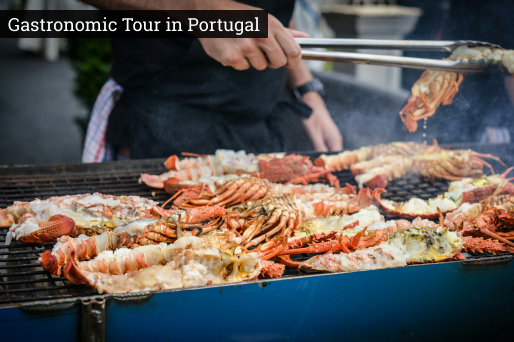
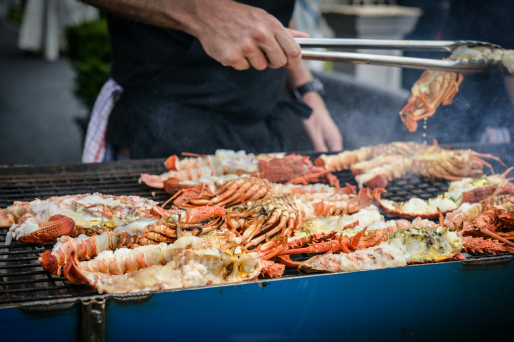
hw13_1

Changed region(s): [[0.0, 0.0292, 0.5292, 0.117]]

diff --git a/styles/style.scss b/styles/style.scss
@@ -77,6 +77,13 @@
             }
     }
 
+    img{
+        position: relative;
+        margin: 70px auto;
+        left: 50%;
+        transform: translateX(-50%);
+        
+    }
 }
 
 .about{
@@ -260,7 +267,43 @@
                                 @media (min-height:750px) {
                                     width: 513px;
                                 }
-                        }        
+                        }
+                    
+                        .images1{
+                            position: relative;
+                                p{
+                                    position: absolute;
+                                    @include RobotoSlab (15px, 18px, 400);
+                                    padding: 4px 6px;
+                                    color: $white;
+                                    background-color: $blackOpasity;
+                                    top: 10px;
+                                }
+                        }
+
+                        .images2{
+                            position: relative;
+                                p{
+                                    position: absolute;
+                                    @include RobotoSlab (15px, 18px, 400);
+                                    padding: 4px 6px;
+                                    color: $white;
+                                    background-color: $blackOpasity;
+                                    top: 10px;
+                                }
+                        }
+
+                        .images3{
+                            position: relative;
+                                p{
+                                    position: absolute;
+                                    @include RobotoSlab (15px, 18px, 400);
+                                    padding: 4px 6px;
+                                    color: $white;
+                                    background-color: $blackOpasity;
+                                    top: 10px;
+                                }
+                        }
                 }
 
                 &_btn{

diff --git a/styles/style.css b/styles/style.css
@@ -117,6 +117,12 @@
   text-transform: uppercase;
   border: 0px;
 }
+.second_box img {
+  position: relative;
+  margin: 70px auto;
+  left: 50%;
+  transform: translateX(-50%);
+}
 
 .about {
   padding: 144px 0 124px 0;
@@ -329,6 +335,51 @@
   .fifth_box_cont_img_img1, .fifth_box_cont_img_img2, .fifth_box_cont_img_img3 {
     width: 513px;
   }
+}
+.fifth_box_cont_img .images1 {
+  position: relative;
+}
+.fifth_box_cont_img .images1 p {
+  position: absolute;
+  font-family: "RobotoSlab", sans-serif;
+  font-style: normal;
+  font-size: 15px;
+  line-height: 18px;
+  font-weight: 400;
+  padding: 4px 6px;
+  color: #fff;
+  background-color: rgba(0, 0, 0, 0.8);
+  top: 10px;
+}
+.fifth_box_cont_img .images2 {
+  position: relative;
+}
+.fifth_box_cont_img .images2 p {
+  position: absolute;
+  font-family: "RobotoSlab", sans-serif;
+  font-style: normal;
+  font-size: 15px;
+  line-height: 18px;
+  font-weight: 400;
+  padding: 4px 6px;
+  color: #fff;
+  background-color: rgba(0, 0, 0, 0.8);
+  top: 10px;
+}
+.fifth_box_cont_img .images3 {
+  position: relative;
+}
+.fifth_box_cont_img .images3 p {
+  position: absolute;
+  font-family: "RobotoSlab", sans-serif;
+  font-style: normal;
+  font-size: 15px;
+  line-height: 18px;
+  font-weight: 400;
+  padding: 4px 6px;
+  color: #fff;
+  background-color: rgba(0, 0, 0, 0.8);
+  top: 10px;
 }
 .fifth_box_cont_btn {
   height: 56px;

diff --git a/index.html b/index.html
@@ -49,7 +49,10 @@
             <p class="second_box_container_text">Holidays around the world that you deserve</p>
             <button class="second_box_container_btn">order trip</button>
         </div>
+        <img src="./imgs/2.2_icon_fly.svg" alt="fly">
     </div>
+
+
 
 </section>
 
@@ -131,10 +134,10 @@
 <div class="fifth_box">
     <div class="fifth_box_cont">
         <div class="fifth_box_cont_title">the most popular ways</div>
-        <div class="fifth_box_cont_img">
-            <img src="./imgs/5.1_Img.png" alt="5.1" class="fifth_box_cont_img_img1">
-            <img src="./imgs/5.2_Img.png" alt="5.2" class="fifth_box_cont_img_img2">
-            <img src="./imgs/5.3_Img.png" alt="5.3" class="fifth_box_cont_img_img3">
+        <div class="fifth_box_cont_img  ">
+            <div class="fifth_box_cont_img images1"><img src="./imgs/5.1_Img.jpg" alt="5.1" class="fifth_box_cont_img_img1"><p>Beautiful Architecture of Prague</p></div> 
+            <div class="fifth_box_cont_img images2"><img src="./imgs/5.2_Img.png" alt="5.2" class="fifth_box_cont_img_img2"><p>Gastronomic Tour in Portugal</p></div>
+            <div class="fifth_box_cont_img images3"><img src="./imgs/5.3_Img.png" alt="5.3" class="fifth_box_cont_img_img3"><p>Breathtaking Dubai</p></div>
             
         </div>
         <button class="fifth_box_cont_btn">VIEW MORE</button>
